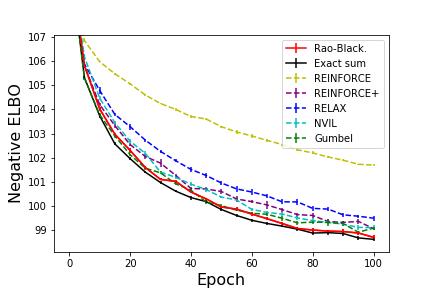
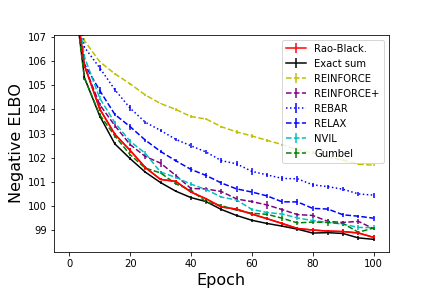
readme

diff --git a/Readme.md b/Readme.md
@@ -1,0 +1,67 @@
+# Rao-Blackwellized Stochastic Gradients for Discrete Distributions
+
+This repository contains the implementation of the method and experiments described in 
+
+https://arxiv.org/abs/1810.04777 
+
+By Runjing Liu, Jeffrey Regier, Nilesh Tripuraneni, Michael I. Jordan, Jon McAuliffe
+
+This paper is concerned with optimization objectives of the form 
+\begin{align}
+E_{q_\eta(z)}[f(z)] = \sum_{k = 1}^K q_\eta(z = k) f(k)
+\end{align}
+where $z$ is a discrete random variable, so the re-parametrization trick does not apply. 
+
+Many such stochastic gradient estimators have been proposed to run SGD on the above objective, such as RELAX
+(Grathwohl et al., 2018), REBAR (Tucker et al., 2017),
+NVIL (Mnih & Gregor, 2014), and Gumbel-softmax (Jang et al., 2017). 
+
+In our paper, we describe a technique that can
+be applied to reduce the variance of any such
+estimator, without changing its bias. 
+
+Our idea is simple. Let $g$ be any unbiased estimate of the gradient 
+so 
+Let $g(z)$ be any unbiased estimate of the gradient so that
+\begin{align}
+\nabla_{\eta} E_{q_{\eta}(z)} [f_\eta(z)] = E_{q_{\eta}(z)}[g(z)] = \sum_{k = 1}^K q_\eta(k)g(k)
+\end{align}
+\pause
+Since $K$ might be large, the last sum is difficult to compute.
+
+A simple estimate is to sample $z\sim q_\eta(z)$ and evaluate $g(z)$.
+But this might have high variance.
+
+In many applications, $q_\eta(z)$ is concentrated on only a few categories.
+
+**Our idea:** Let us analytically sum categories where $q_\eta(z)$ has high probability,
+and sample the remaining terms.
+
+Let $\mathcal{C}_\alpha$ be the categories where $q_\eta(z)$ has probability larger than $\alpha$. Then the exact gradient
+can be written as
+\begin{align}
+ \sum_{k = 1}^K q_\eta(k)g(k) = \sum_{z \in \mathcal{C}_\alpha} q_\eta(z)g(z) + (1 - q(\mathcal{C}_\alpha))E_{q_{\eta}(z)} [f_\eta(z) | z \notin \mathcal{C}_\alpha]
+\end{align}
+\pause
+We compute the first sum analytically, and estimate the conditional expectation by sampling.
+
+\pause
+If $q_\eta(z)$ is concentrated around a few categories, then $1 - q(\mathcal{C}_\alpha)$ is small,
+and there is almost no variance in the second term. The first term nearly recovers the true gradient.
+
+This intuition is made precise using a **Rao-Blackwellization** argument. See our paper for more details. 
+
+## Some results
+This repository reproduces the results shown in the paper. Our implementation of this method can be found in `./rb_utils/`. We also implemented REBAR/RELAX, Gumbel-softmax, and NVIL for comparison. Our experiments can be found in the `./experiments/` folder. Two are highlighted here. 
+
+One experiment examined our performance on a semi-supervised MNIST task (Kingma et al., 2014). Here, the discrete random variable is the digit label. We compare Rao-Blackwellizing the simple REINFORCE estimator against other SOTA methods. See our paper for details of the methods implemented. 
+
+![Comparison of our method (red) against other SOTA methods on the semi-supervised MNIST task, ](./experiments/icml_figures/ss_mnist_elbo_plot.png)
+
+We also trained on a pixel attention task, where we had to locate an MNIST digit randomly placed on a 68 x 68 background. The discrete random variable hence takes on $68^2$ categories. 
+
+
+![Comparison of our method (red) against other SOTA methods on the moving MNIST task. ](./experiments/icml_figures/moving_mnist_elbo_plot.png)
+
+
+
